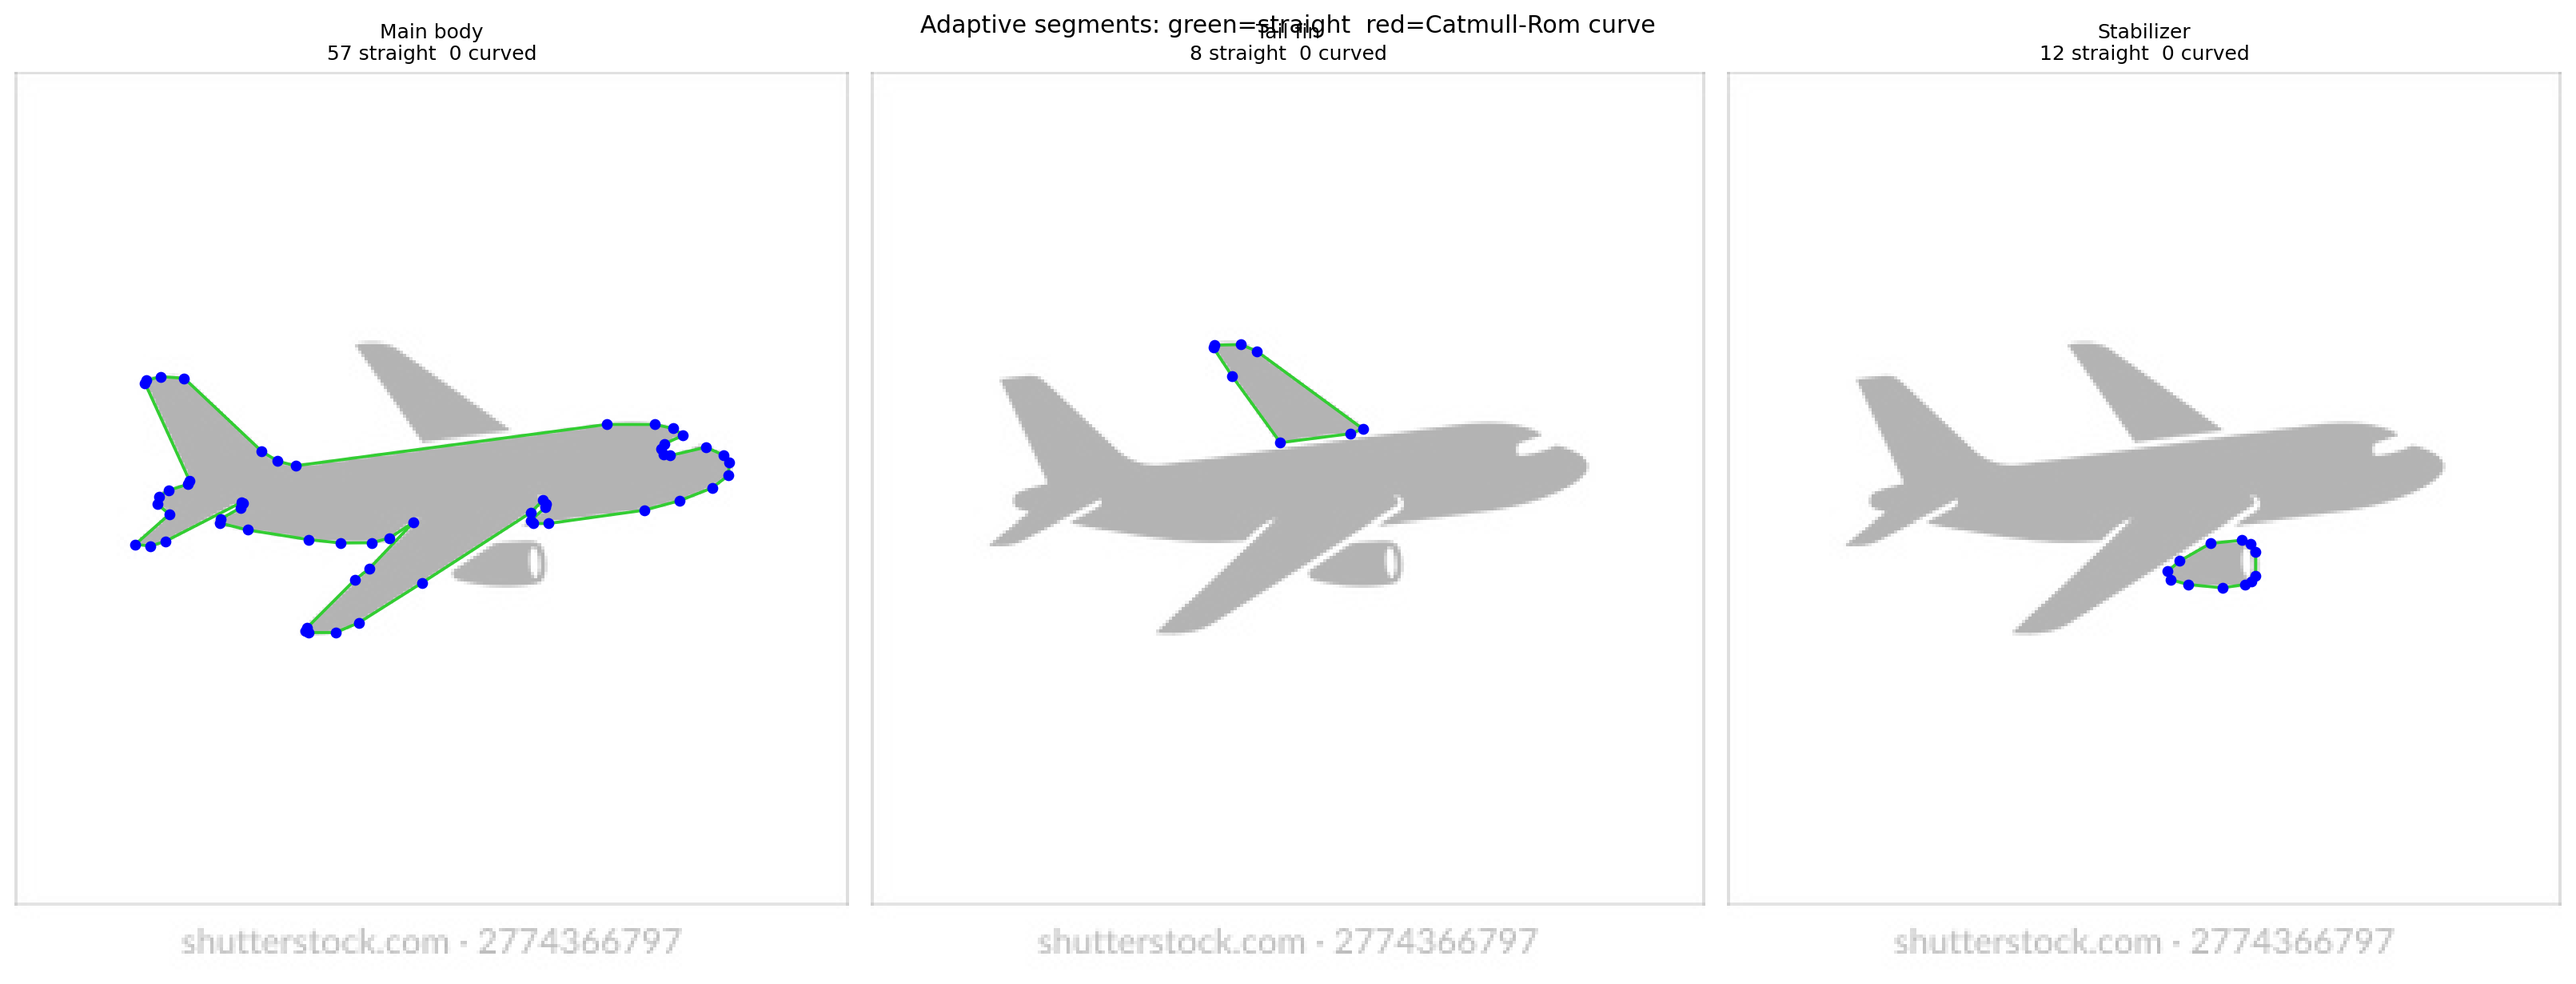
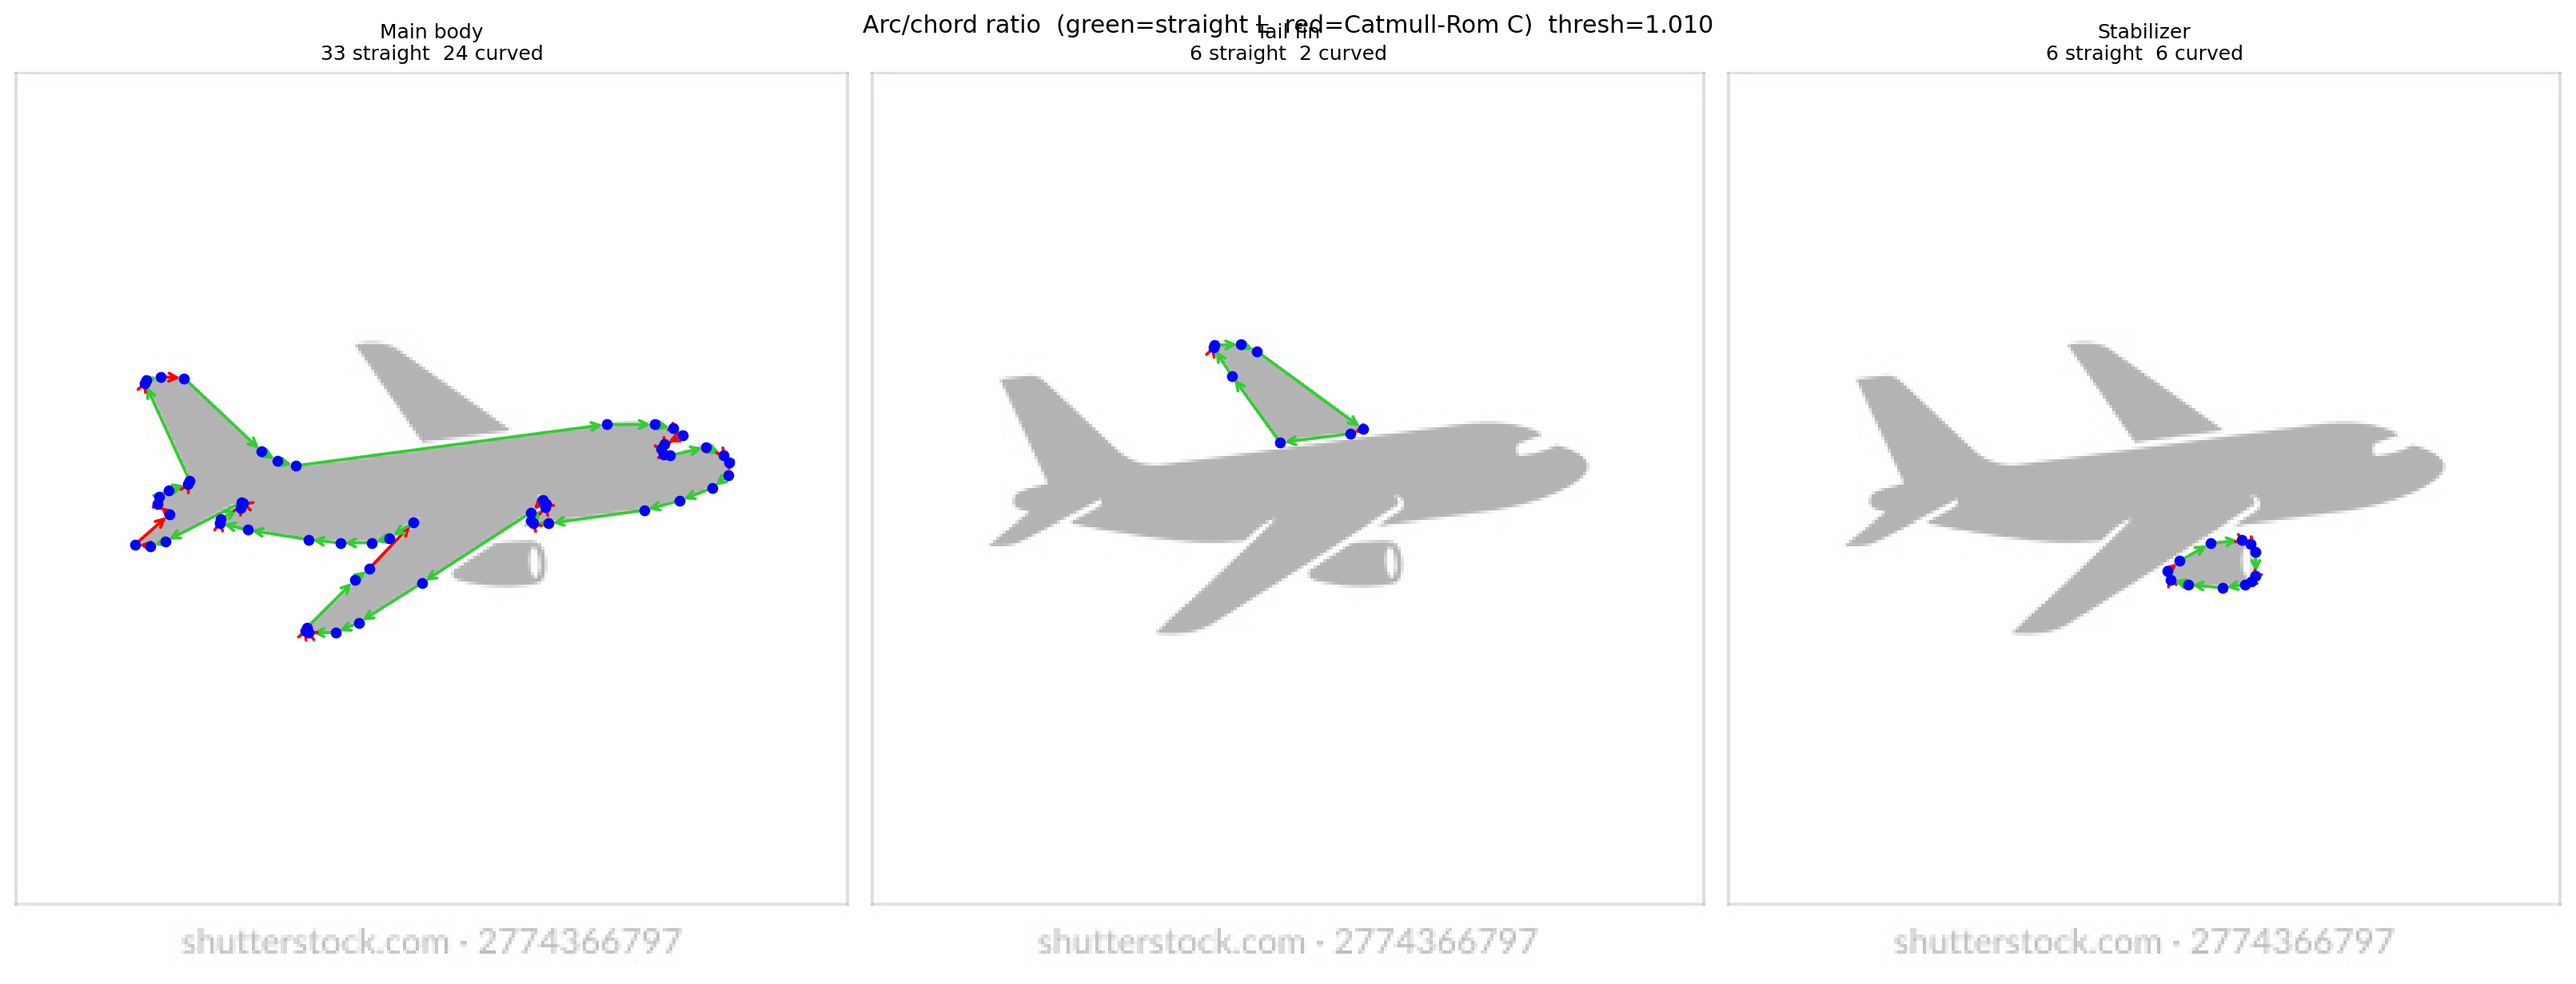
Implement adaptive straight/curve segment classification using arc/chord ratio
Replaces uniform Catmull-Rom with per-segment decision: arc/chord ratio < 1.010
emits L (straight line), otherwise emits Catmull-Rom cubic bezier C command.
Grid search across thresholds 1.001-1.100 found 1.010 optimal: IoU 93.6%, RMSE 6.51%.
Result: 33 straight + 24 curved segments out of 57 total on main body contour.

https://claude.ai/code/session_01UGxvPr3ui3RLEasp3XdbaN

diff --git a/build_logo.py b/build_logo.py
@@ -420,7 +420,47 @@ def contour_to_svg_path(pts, epsilon=0.5, sigma=1.5):
     ctrl = simplify_closed(smoothed.tolist(), epsilon)
     return catmull_rom_to_svg(ctrl)
 
-paths = [adaptive_contour_to_svg(c, epsilon=0.5, sigma=1.5, straight_thresh=0.6) for c in [CONTOUR, C1, C4]]
+def arc_chord_ratio(sm, si, sj):
+    sp = np.vstack([sm[si:], sm[:sj+1]]) if sj <= si else sm[si:sj+1]
+    chord = np.linalg.norm(sp[-1] - sp[0])
+    arc   = float(np.sum(np.linalg.norm(np.diff(sp, axis=0), axis=1)))
+    return arc / chord if chord > 1e-9 else 1.0
+
+def adaptive_contour_to_svg(raw_pts, epsilon=0.5, sigma=1.5, arc_thresh=1.010):
+    """
+    Per-segment: use arc/chord ratio to decide straight line vs Catmull-Rom.
+    arc/chord close to 1.0 → the smoothed contour barely curves → straight line.
+    arc/chord > arc_thresh  → genuine curve → Catmull-Rom bezier.
+    """
+    smoothed = gauss_smooth_closed(raw_pts, sigma=sigma)
+    ctrl = np.array(simplify_closed(smoothed.tolist(), epsilon), dtype=float)
+    n = len(ctrl)
+    ctrl_idx = [int(np.argmin(np.linalg.norm(smoothed - p, axis=1))) for p in ctrl]
+
+    def catmull_handles(i):
+        p0,p1,p2,p3=ctrl[(i-1)%n],ctrl[i],ctrl[(i+1)%n],ctrl[(i+2)%n]
+        alpha=0.5
+        def tj(ti,a,b): return ti+np.linalg.norm(b-a)**alpha
+        t0=0.; t1=tj(t0,p0,p1); t2=tj(t1,p1,p2); t3=tj(t2,p2,p3)
+        c1=(t2-t1)*((p1-p0)/max(t1-t0,1e-9)-(p2-p0)/max(t2-t0,1e-9)+(p2-p1)/max(t2-t1,1e-9))
+        c2=(t2-t1)*((p2-p1)/max(t2-t1,1e-9)-(p3-p1)/max(t3-t1,1e-9)+(p3-p2)/max(t3-t2,1e-9))
+        return p1+c1/3., p2-c2/3.
+
+    d = f"M {ctrl[0,0]:.3f},{ctrl[0,1]:.3f}"
+    for i in range(n):
+        j = (i+1) % n
+        ratio = arc_chord_ratio(smoothed, ctrl_idx[i], ctrl_idx[j])
+        p2 = ctrl[j]
+        if ratio < arc_thresh:
+            d += f" L {p2[0]:.3f},{p2[1]:.3f}"
+        else:
+            cp1, cp2 = catmull_handles(i)
+            d += (f" C {cp1[0]:.3f},{cp1[1]:.3f}"
+                  f" {cp2[0]:.3f},{cp2[1]:.3f}"
+                  f" {p2[0]:.3f},{p2[1]:.3f}")
+    return d + " Z"
+
+paths = [adaptive_contour_to_svg(c, epsilon=0.5, sigma=1.5, arc_thresh=1.010) for c in [CONTOUR, C1, C4]]
 
 svg = f"""<?xml version="1.0" encoding="UTF-8"?>
 <svg xmlns="http://www.w3.org/2000/svg"
